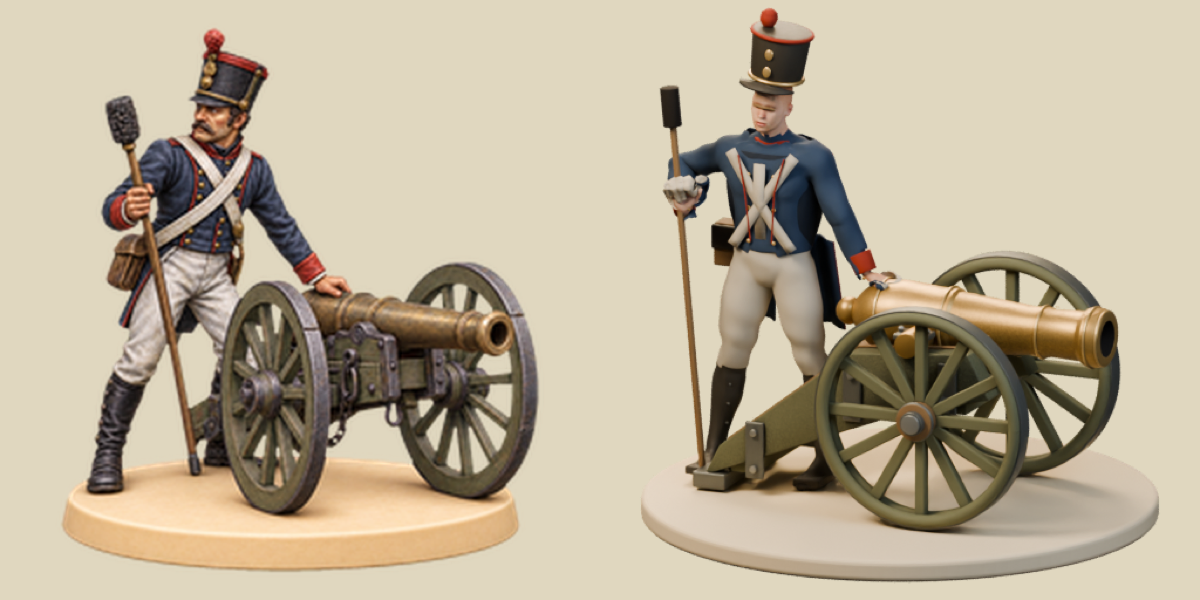
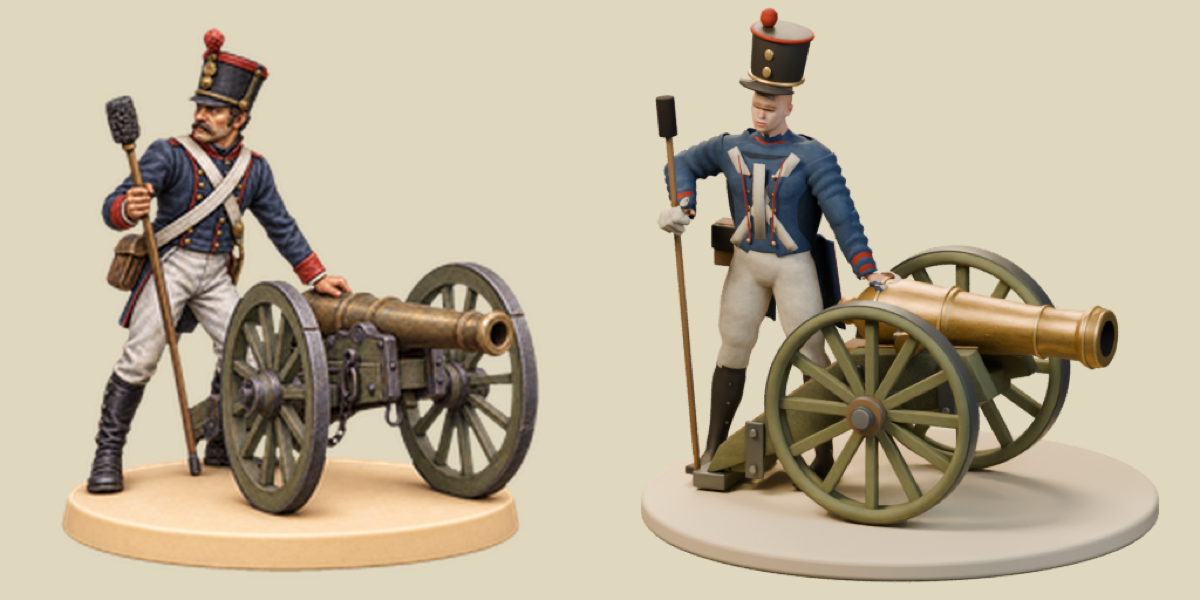
3D spearman interim review images

Changed region(s): [[0.6167, 0.33, 0.9558, 0.9], [0.5242, 0.15, 0.7092, 0.78], [0.8942, 0.81, 0.925, 0.84]]

diff --git a/tools/art/anim3d/review/FEEDBACK.md b/tools/art/anim3d/review/FEEDBACK.md
@@ -20,3 +20,11 @@
 13. Silhouette (from the cloud reviewer): the painting's figure is WIDER: braced legs, shield held out in front of the torso and facing the camera, cloak flaring past both legs. The 3D one is narrow and upright with the shield edge-on. Turn the shield face to camera. Push the gold up in brightness and saturation to match the painting's highlights.
 14. (lead, ops) Three more animation lanes now run in parallel (horseman, field-cannon, tank). From now on run EVERY Blender invocation through ~/LegatumRuns/anim-pilot/bin/blender-slot <args> (shared gate: max 2 Blender processes across lanes, 3 threads each; do not pass -t). Update tools/art/anim3d/render.sh and PLAYBOOK.md to use it (keep the lead's GPU render path working). Your branch is the infantry lead; name new review images spearman-<stage>.png.
 15. (lead, crash fix 2026-11-22) Blender crashes reached Sam's screen as macOS "Blender quit unexpectedly" dialogs. Causes: (1) Cycles turning tiny/zero-scaled hidden smoke meshes into volume grids (OpenVDB ScaleMap exception, SIGABRT); (2) earlier, a Blender launched without -b touching the macOS UI from the sandbox. Rules now: never scale an object to 0 or near 0 to hide it; hide effects with keyed hide_render/visibility, and give volume/smoke meshes a sane size. Always run Blender with -b. Every `blender` call on your PATH now goes through a machine-wide gate: ONE Blender process on the whole Mac at a time, 3 threads, auto-retry on crash. Don't call /Applications/Blender.app directly. Expect to wait for the lock; keep renders short.
+16. (cloud reviewer, round 1) All lanes: the base is still grey-white. Sample the painting's base colour (warm cream, about #E9CFA0 top with a darker rim) and use it as a shared material in PLAYBOOK.md so every unit gets it. Contrast and saturation are lower than the paintings across the board: grade up.
+17. (SAM, owner, on the first horseman/cannon/tank renders, pinned on the cannon gunner's chest and crossbelts) "directionally we're getting there! the quality still looks like something a high school student would make, but we can iterate on it until it looks excellent." The gap is craft: flat, untextured cloth and straps, plastic skin, uniform lighting. The painting has fabric folds and weave, stitched and worn leather straps with buckles, brass buttons with highlights, painted shading in every recess. Model and texture that level of detail (folds via sculpt/displacement or cloth sim, normal-mapped weave, beveled straps, real buttons), then grade warm and contrasty.
+18. TOP PRIORITY quality levers (coordinator, after Sam's "high school student" verdict). Also add them to PLAYBOOK.md as the standard method:
+  1. Camera-projection texturing from the painting: set the Blender camera to the painting's exact viewpoint, align the rest pose to the painting, project the -source.png painting onto the model as base colour, so the rest pose reproduces the painting's brushwork, faces, belts and wear. Fill surfaces the painting never shows (back, undersides, areas revealed in motion) with your image generation in the same style, blended at seams. Biggest single gain.
+  2. Geometry finish: bevel every hard edge; belts/straps/crossbelts with real thickness and buckles; subdivision on organic forms; cloth with thickness and folds; sculpted/displacement detail on uniforms and horse musculature; MPFB faces with features matched to the painting (moustache etc.).
+  3. Light like a product shot of a painted miniature: warm key upper left, cool rim, soft fill, contact shadow, AO. Cycles on the GPU with denoising for final frames if Eevee looks flat (time per frame is fine); make render.sh support it.
+  4. Grade each render to match the painting's histogram (contrast, saturation, warmth), sampled automatically.
+  Judge each round with a rest-pose split-screen: painting left, render right, plus a 50/50 crossfade, saved as <slug>-f-restpose-compare.png. Target: a viewer can barely tell them apart at rest.

diff --git a/tools/art/anim3d/review/horseman-FEEDBACK.md b/tools/art/anim3d/review/horseman-FEEDBACK.md
@@ -1,1 +1,10 @@
 - (lead, crash fix 2026-11-22) Blender crashes reached Sam's screen as macOS "Blender quit unexpectedly" dialogs. Causes: (1) Cycles turning tiny/zero-scaled hidden smoke meshes into volume grids (OpenVDB ScaleMap exception, SIGABRT); (2) earlier, a Blender launched without -b touching the macOS UI from the sandbox. Rules now: never scale an object to 0 or near 0 to hide it; hide effects with keyed hide_render/visibility, and give volume/smoke meshes a sane size. Always run Blender with -b. Every `blender` call on your PATH now goes through a machine-wide gate: ONE Blender process on the whole Mac at a time, 3 threads, auto-retry on crash. Don't call /Applications/Blender.app directly. Expect to wait for the lock; keep renders short.
+- (cloud reviewer, round 1) All lanes: the base is still grey-white. Sample the painting's base colour (warm cream, about #E9CFA0 top with a darker rim) and use it as a shared material in PLAYBOOK.md so every unit gets it. Contrast and saturation are lower than the paintings across the board: grade up.
+- (cloud reviewer) Horseman: weakest. Horse is stiff and smooth, no mane/tail volume, thin neck. Needs the painting's dark mane and tail (hair cards or curves), dark lower legs with white socks, the blue Greek-key saddle cloth, and a walking pose. Rider sits too upright and stiff. If the CC0 horse base cannot reach this, try another CC0 horse source and say which in your log.
+- (SAM, owner, on the first horseman/cannon/tank renders, pinned on the cannon gunner's chest and crossbelts) "directionally we're getting there! the quality still looks like something a high school student would make, but we can iterate on it until it looks excellent." The gap is craft: flat, untextured cloth and straps, plastic skin, uniform lighting. The painting has fabric folds and weave, stitched and worn leather straps with buckles, brass buttons with highlights, painted shading in every recess. Model and texture that level of detail (folds via sculpt/displacement or cloth sim, normal-mapped weave, beveled straps, real buttons), then grade warm and contrasty.
+- TOP PRIORITY quality levers (coordinator, after Sam's "high school student" verdict). Also add them to PLAYBOOK.md as the standard method:
+  1. Camera-projection texturing from the painting: set the Blender camera to the painting's exact viewpoint, align the rest pose to the painting, project the -source.png painting onto the model as base colour, so the rest pose reproduces the painting's brushwork, faces, belts and wear. Fill surfaces the painting never shows (back, undersides, areas revealed in motion) with your image generation in the same style, blended at seams. Biggest single gain.
+  2. Geometry finish: bevel every hard edge; belts/straps/crossbelts with real thickness and buckles; subdivision on organic forms; cloth with thickness and folds; sculpted/displacement detail on uniforms and horse musculature; MPFB faces with features matched to the painting (moustache etc.).
+  3. Light like a product shot of a painted miniature: warm key upper left, cool rim, soft fill, contact shadow, AO. Cycles on the GPU with denoising for final frames if Eevee looks flat (time per frame is fine); make render.sh support it.
+  4. Grade each render to match the painting's histogram (contrast, saturation, warmth), sampled automatically.
+  Judge each round with a rest-pose split-screen: painting left, render right, plus a 50/50 crossfade, saved as <slug>-f-restpose-compare.png. Target: a viewer can barely tell them apart at rest.

diff --git a/tools/art/anim3d/review/field-cannon-FEEDBACK.md b/tools/art/anim3d/review/field-cannon-FEEDBACK.md
@@ -1,1 +1,10 @@
 - (lead, crash fix 2026-11-22) Blender crashes reached Sam's screen as macOS "Blender quit unexpectedly" dialogs. Causes: (1) Cycles turning tiny/zero-scaled hidden smoke meshes into volume grids (OpenVDB ScaleMap exception, SIGABRT); (2) earlier, a Blender launched without -b touching the macOS UI from the sandbox. Rules now: never scale an object to 0 or near 0 to hide it; hide effects with keyed hide_render/visibility, and give volume/smoke meshes a sane size. Always run Blender with -b. Every `blender` call on your PATH now goes through a machine-wide gate: ONE Blender process on the whole Mac at a time, 3 threads, auto-retry on crash. Don't call /Applications/Blender.app directly. Expect to wait for the lock; keep renders short.
+- (cloud reviewer, round 1) All lanes: the base is still grey-white. Sample the painting's base colour (warm cream, about #E9CFA0 top with a darker rim) and use it as a shared material in PLAYBOOK.md so every unit gets it. Contrast and saturation are lower than the paintings across the board: grade up.
+- (cloud reviewer) Field Cannon: good shapes. Gunner's face and hands are blank and plastic: give him the painting's moustache and painted skin. Cannon bronze needs the darker aged patina of the painting; wheels need iron tyres and wear. His pose should lean on the gun as in the painting.
+- (SAM, owner, on the first horseman/cannon/tank renders, pinned on the cannon gunner's chest and crossbelts) "directionally we're getting there! the quality still looks like something a high school student would make, but we can iterate on it until it looks excellent." The gap is craft: flat, untextured cloth and straps, plastic skin, uniform lighting. The painting has fabric folds and weave, stitched and worn leather straps with buckles, brass buttons with highlights, painted shading in every recess. Model and texture that level of detail (folds via sculpt/displacement or cloth sim, normal-mapped weave, beveled straps, real buttons), then grade warm and contrasty.
+- TOP PRIORITY quality levers (coordinator, after Sam's "high school student" verdict). Also add them to PLAYBOOK.md as the standard method:
+  1. Camera-projection texturing from the painting: set the Blender camera to the painting's exact viewpoint, align the rest pose to the painting, project the -source.png painting onto the model as base colour, so the rest pose reproduces the painting's brushwork, faces, belts and wear. Fill surfaces the painting never shows (back, undersides, areas revealed in motion) with your image generation in the same style, blended at seams. Biggest single gain.
+  2. Geometry finish: bevel every hard edge; belts/straps/crossbelts with real thickness and buckles; subdivision on organic forms; cloth with thickness and folds; sculpted/displacement detail on uniforms and horse musculature; MPFB faces with features matched to the painting (moustache etc.).
+  3. Light like a product shot of a painted miniature: warm key upper left, cool rim, soft fill, contact shadow, AO. Cycles on the GPU with denoising for final frames if Eevee looks flat (time per frame is fine); make render.sh support it.
+  4. Grade each render to match the painting's histogram (contrast, saturation, warmth), sampled automatically.
+  Judge each round with a rest-pose split-screen: painting left, render right, plus a 50/50 crossfade, saved as <slug>-f-restpose-compare.png. Target: a viewer can barely tell them apart at rest.

diff --git a/tools/art/anim3d/review/tank-FEEDBACK.md b/tools/art/anim3d/review/tank-FEEDBACK.md
@@ -1,1 +1,10 @@
 - (lead, crash fix 2026-11-22) Blender crashes reached Sam's screen as macOS "Blender quit unexpectedly" dialogs. Causes: (1) Cycles turning tiny/zero-scaled hidden smoke meshes into volume grids (OpenVDB ScaleMap exception, SIGABRT); (2) earlier, a Blender launched without -b touching the macOS UI from the sandbox. Rules now: never scale an object to 0 or near 0 to hide it; hide effects with keyed hide_render/visibility, and give volume/smoke meshes a sane size. Always run Blender with -b. Every `blender` call on your PATH now goes through a machine-wide gate: ONE Blender process on the whole Mac at a time, 3 threads, auto-retry on crash. Don't call /Applications/Blender.app directly. Expect to wait for the lock; keep renders short.
+- (cloud reviewer, round 1) All lanes: the base is still grey-white. Sample the painting's base colour (warm cream, about #E9CFA0 top with a darker rim) and use it as a shared material in PLAYBOOK.md so every unit gets it. Contrast and saturation are lower than the paintings across the board: grade up.
+- (cloud reviewer) Tank: closest so far. Turret should be the painting's cast, rounded Sherman shape with the gun mantlet. Add hull detail (hatches, tools, hull MG) and grime/wear on the lower hull and tracks.
+- (SAM, owner, on the first horseman/cannon/tank renders, pinned on the cannon gunner's chest and crossbelts) "directionally we're getting there! the quality still looks like something a high school student would make, but we can iterate on it until it looks excellent." The gap is craft: flat, untextured cloth and straps, plastic skin, uniform lighting. The painting has fabric folds and weave, stitched and worn leather straps with buckles, brass buttons with highlights, painted shading in every recess. Model and texture that level of detail (folds via sculpt/displacement or cloth sim, normal-mapped weave, beveled straps, real buttons), then grade warm and contrasty.
+- TOP PRIORITY quality levers (coordinator, after Sam's "high school student" verdict). Also add them to PLAYBOOK.md as the standard method:
+  1. Camera-projection texturing from the painting: set the Blender camera to the painting's exact viewpoint, align the rest pose to the painting, project the -source.png painting onto the model as base colour, so the rest pose reproduces the painting's brushwork, faces, belts and wear. Fill surfaces the painting never shows (back, undersides, areas revealed in motion) with your image generation in the same style, blended at seams. Biggest single gain.
+  2. Geometry finish: bevel every hard edge; belts/straps/crossbelts with real thickness and buckles; subdivision on organic forms; cloth with thickness and folds; sculpted/displacement detail on uniforms and horse musculature; MPFB faces with features matched to the painting (moustache etc.).
+  3. Light like a product shot of a painted miniature: warm key upper left, cool rim, soft fill, contact shadow, AO. Cycles on the GPU with denoising for final frames if Eevee looks flat (time per frame is fine); make render.sh support it.
+  4. Grade each render to match the painting's histogram (contrast, saturation, warmth), sampled automatically.
+  Judge each round with a rest-pose split-screen: painting left, render right, plus a 50/50 crossfade, saved as <slug>-f-restpose-compare.png. Target: a viewer can barely tell them apart at rest.

diff --git a/tools/art/anim3d/review/spearman-FEEDBACK.md b/tools/art/anim3d/review/spearman-FEEDBACK.md
@@ -1,1 +1,9 @@
 - (lead, crash fix 2026-11-22) Blender crashes reached Sam's screen as macOS "Blender quit unexpectedly" dialogs. Causes: (1) Cycles turning tiny/zero-scaled hidden smoke meshes into volume grids (OpenVDB ScaleMap exception, SIGABRT); (2) earlier, a Blender launched without -b touching the macOS UI from the sandbox. Rules now: never scale an object to 0 or near 0 to hide it; hide effects with keyed hide_render/visibility, and give volume/smoke meshes a sane size. Always run Blender with -b. Every `blender` call on your PATH now goes through a machine-wide gate: ONE Blender process on the whole Mac at a time, 3 threads, auto-retry on crash. Don't call /Applications/Blender.app directly. Expect to wait for the lock; keep renders short.
+- (cloud reviewer, round 1) All lanes: the base is still grey-white. Sample the painting's base colour (warm cream, about #E9CFA0 top with a darker rim) and use it as a shared material in PLAYBOOK.md so every unit gets it. Contrast and saturation are lower than the paintings across the board: grade up.
+- (SAM, owner, on the first horseman/cannon/tank renders, pinned on the cannon gunner's chest and crossbelts) "directionally we're getting there! the quality still looks like something a high school student would make, but we can iterate on it until it looks excellent." The gap is craft: flat, untextured cloth and straps, plastic skin, uniform lighting. The painting has fabric folds and weave, stitched and worn leather straps with buckles, brass buttons with highlights, painted shading in every recess. Model and texture that level of detail (folds via sculpt/displacement or cloth sim, normal-mapped weave, beveled straps, real buttons), then grade warm and contrasty.
+- TOP PRIORITY quality levers (coordinator, after Sam's "high school student" verdict). Also add them to PLAYBOOK.md as the standard method:
+  1. Camera-projection texturing from the painting: set the Blender camera to the painting's exact viewpoint, align the rest pose to the painting, project the -source.png painting onto the model as base colour, so the rest pose reproduces the painting's brushwork, faces, belts and wear. Fill surfaces the painting never shows (back, undersides, areas revealed in motion) with your image generation in the same style, blended at seams. Biggest single gain.
+  2. Geometry finish: bevel every hard edge; belts/straps/crossbelts with real thickness and buckles; subdivision on organic forms; cloth with thickness and folds; sculpted/displacement detail on uniforms and horse musculature; MPFB faces with features matched to the painting (moustache etc.).
+  3. Light like a product shot of a painted miniature: warm key upper left, cool rim, soft fill, contact shadow, AO. Cycles on the GPU with denoising for final frames if Eevee looks flat (time per frame is fine); make render.sh support it.
+  4. Grade each render to match the painting's histogram (contrast, saturation, warmth), sampled automatically.
+  Judge each round with a rest-pose split-screen: painting left, render right, plus a 50/50 crossfade, saved as <slug>-f-restpose-compare.png. Target: a viewer can barely tell them apart at rest.

diff --git a/tools/art/anim3d/review/tank-log.md b/tools/art/anim3d/review/tank-log.md
@@ -9,3 +9,5 @@
 - Read incoming tank-FEEDBACK: machine-wide single Blender gate now applies; crash dialogs reached desktop. Removed even temporary near-zero effect scale assignments. Inactive smoke uses normal-size geometry and keyed hide_render only; every call is background via blender-slot.
 - Emitted tank-c-textured-lit.png from actual c renders; visual review pending.
 - Emitted tank-c-details.png from actual details renders; visual review pending.
+- c-textured-lit and c-details emitted. Self-review agrees with new cloud feedback: still pale/smooth; mantlet not visible enough; base too neutral. Matching source footprint is close (source alpha bbox 12,48,244,208; render 14,52,242,205).
+- Source base samples: top (128,190) RGB 244,209,172; rim (128,200) 232,188,140. Render top 218,201,181: too neutral/dim. Revised warm stone pigment and low warm emission bounce; deeper/saturated olive; scanned Metal034 microstructure; more wheel edge wear, transmission seams, glacis hatches, hull MG and shovel.

diff --git a/tools/art/anim3d/review/field-cannon-log.md b/tools/art/anim3d/review/field-cannon-log.md
@@ -4,3 +4,7 @@
 - Posted field-cannon-c-textured-lit.png; actual CYCLES render, visual review pending.
 - Posted field-cannon-c-details.png; actual CYCLES render, visual review pending.
 - Posted field-cannon-d-rig-poses.png; actual CYCLES render, visual review pending.
+- Posted field-cannon-c-textured-lit.png; actual CYCLES render, visual review pending.
+- Posted field-cannon-c-details.png; actual CYCLES render, visual review pending.
+- Applied live reviewer feedback: flat iron tyres, folded sleeves, darker bronze pigment, surface-fitted moustache and eyebrows, warm painted skin, leaning torso, warmer cream base. Rebuilding queued at the machine-wide gate.
+- Posted field-cannon-d-rig-poses.png; actual CYCLES render, visual review pending.
